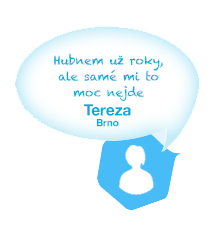
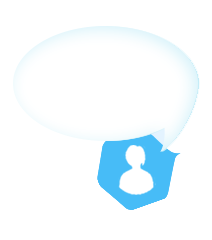
hp

Changed region(s): [[0.2547, 0.2042, 0.7642, 0.525], [0.0566, 0.0875, 0.8774, 0.6417]]

diff --git a/static/css/app.css b/static/css/app.css
@@ -532,7 +532,7 @@ width: 210px;
 height: 215px;
 top: 110px;
 background-image: url("../images/lide1.png");
-padding: 44px;
+padding: 55px 42px 42px 44px;
 }
 
 .left.user1hp p,.right.user2hp p{
@@ -541,6 +541,7 @@ font-size: 26px;
     line-height: 22px;
 color: #47bcf7;
     padding:0px;
+    margin: 0px;
 }
 
 .left.user1hp h5,.right.user2hp h5{
@@ -560,9 +561,9 @@ position: absolute;
 left: 894px;
 width: 230px;
 height: 200px;
-top: 190px;
+top: 150px;
 background-image: url("../images/lide2.png");
-padding: 32px;
+padding: 35px 29px 32px 47px;
 }
 
 /******************************************************************************
